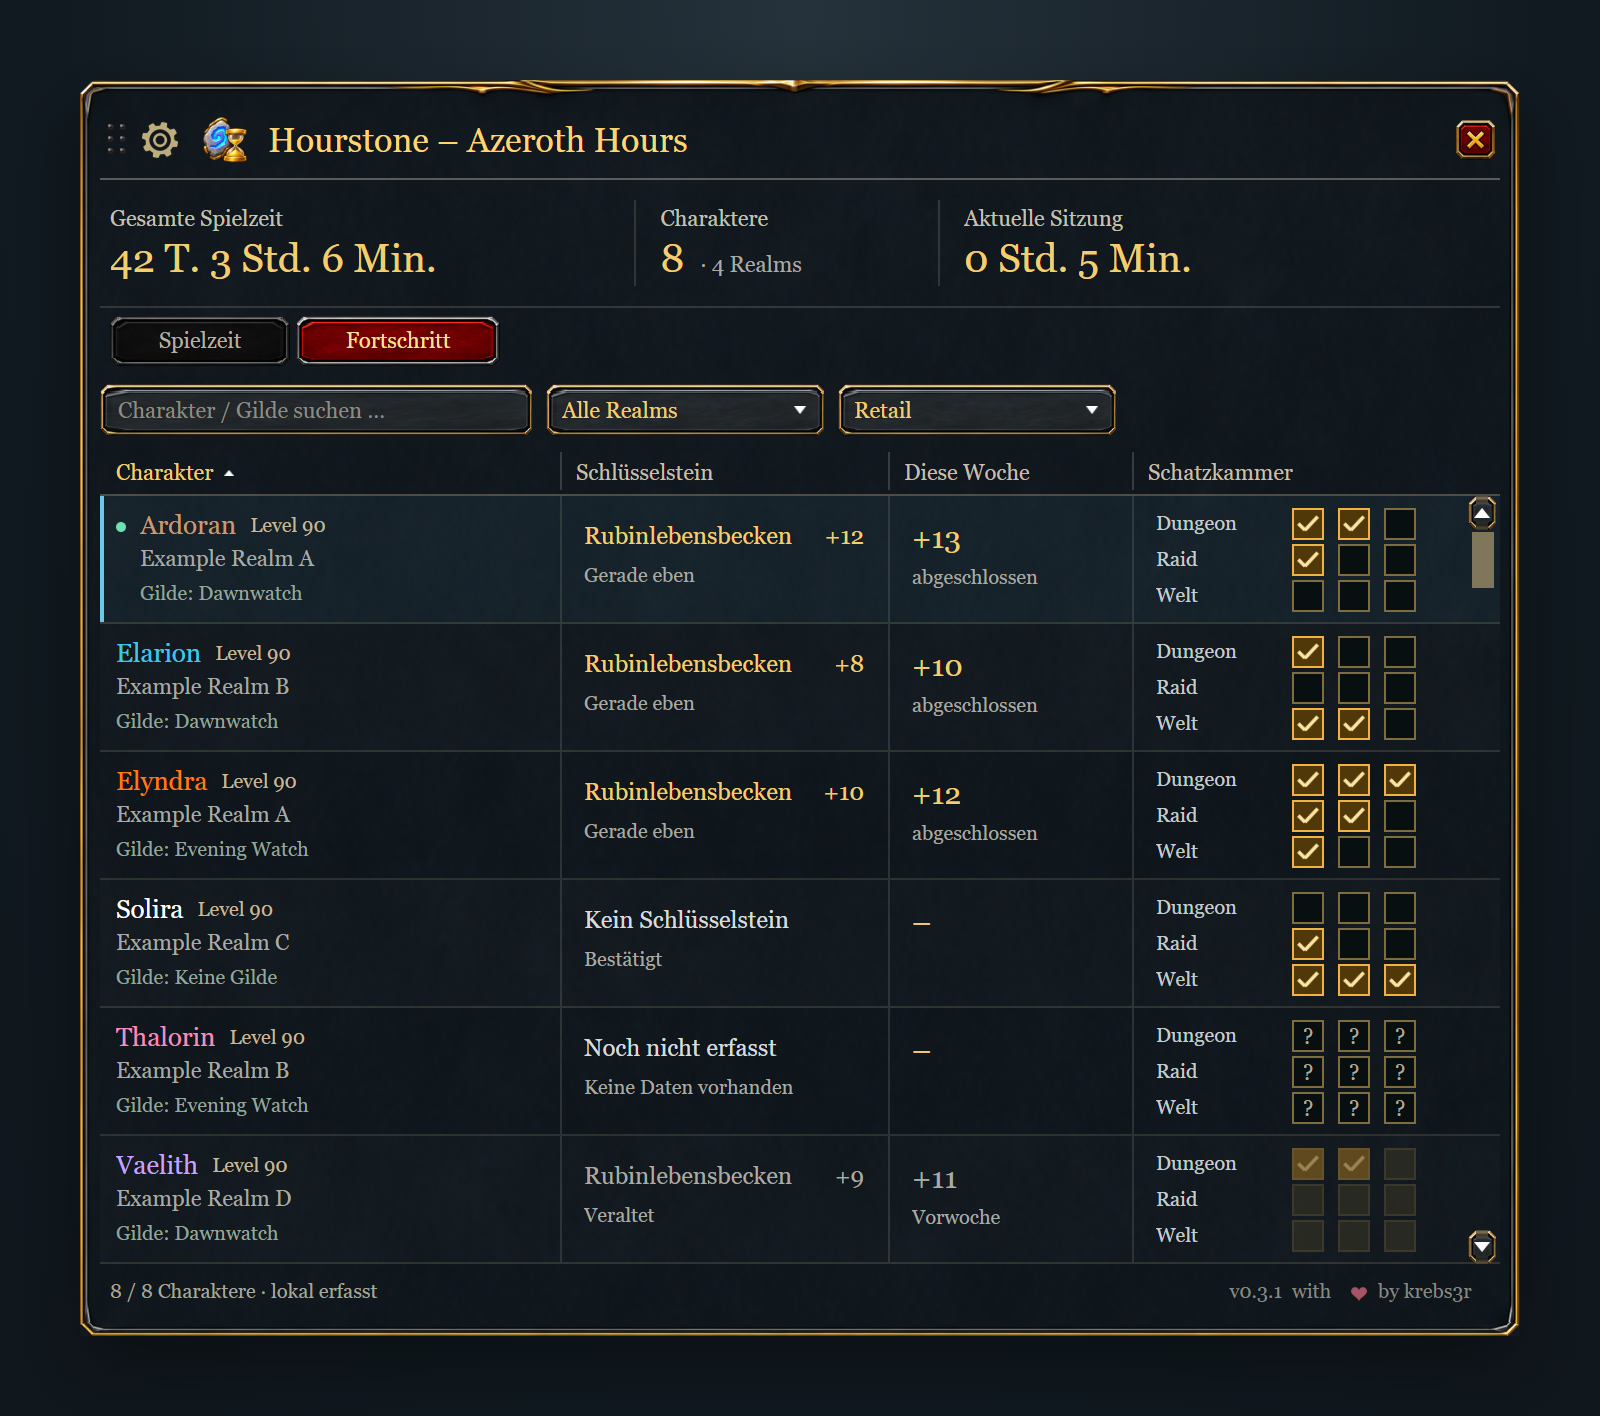
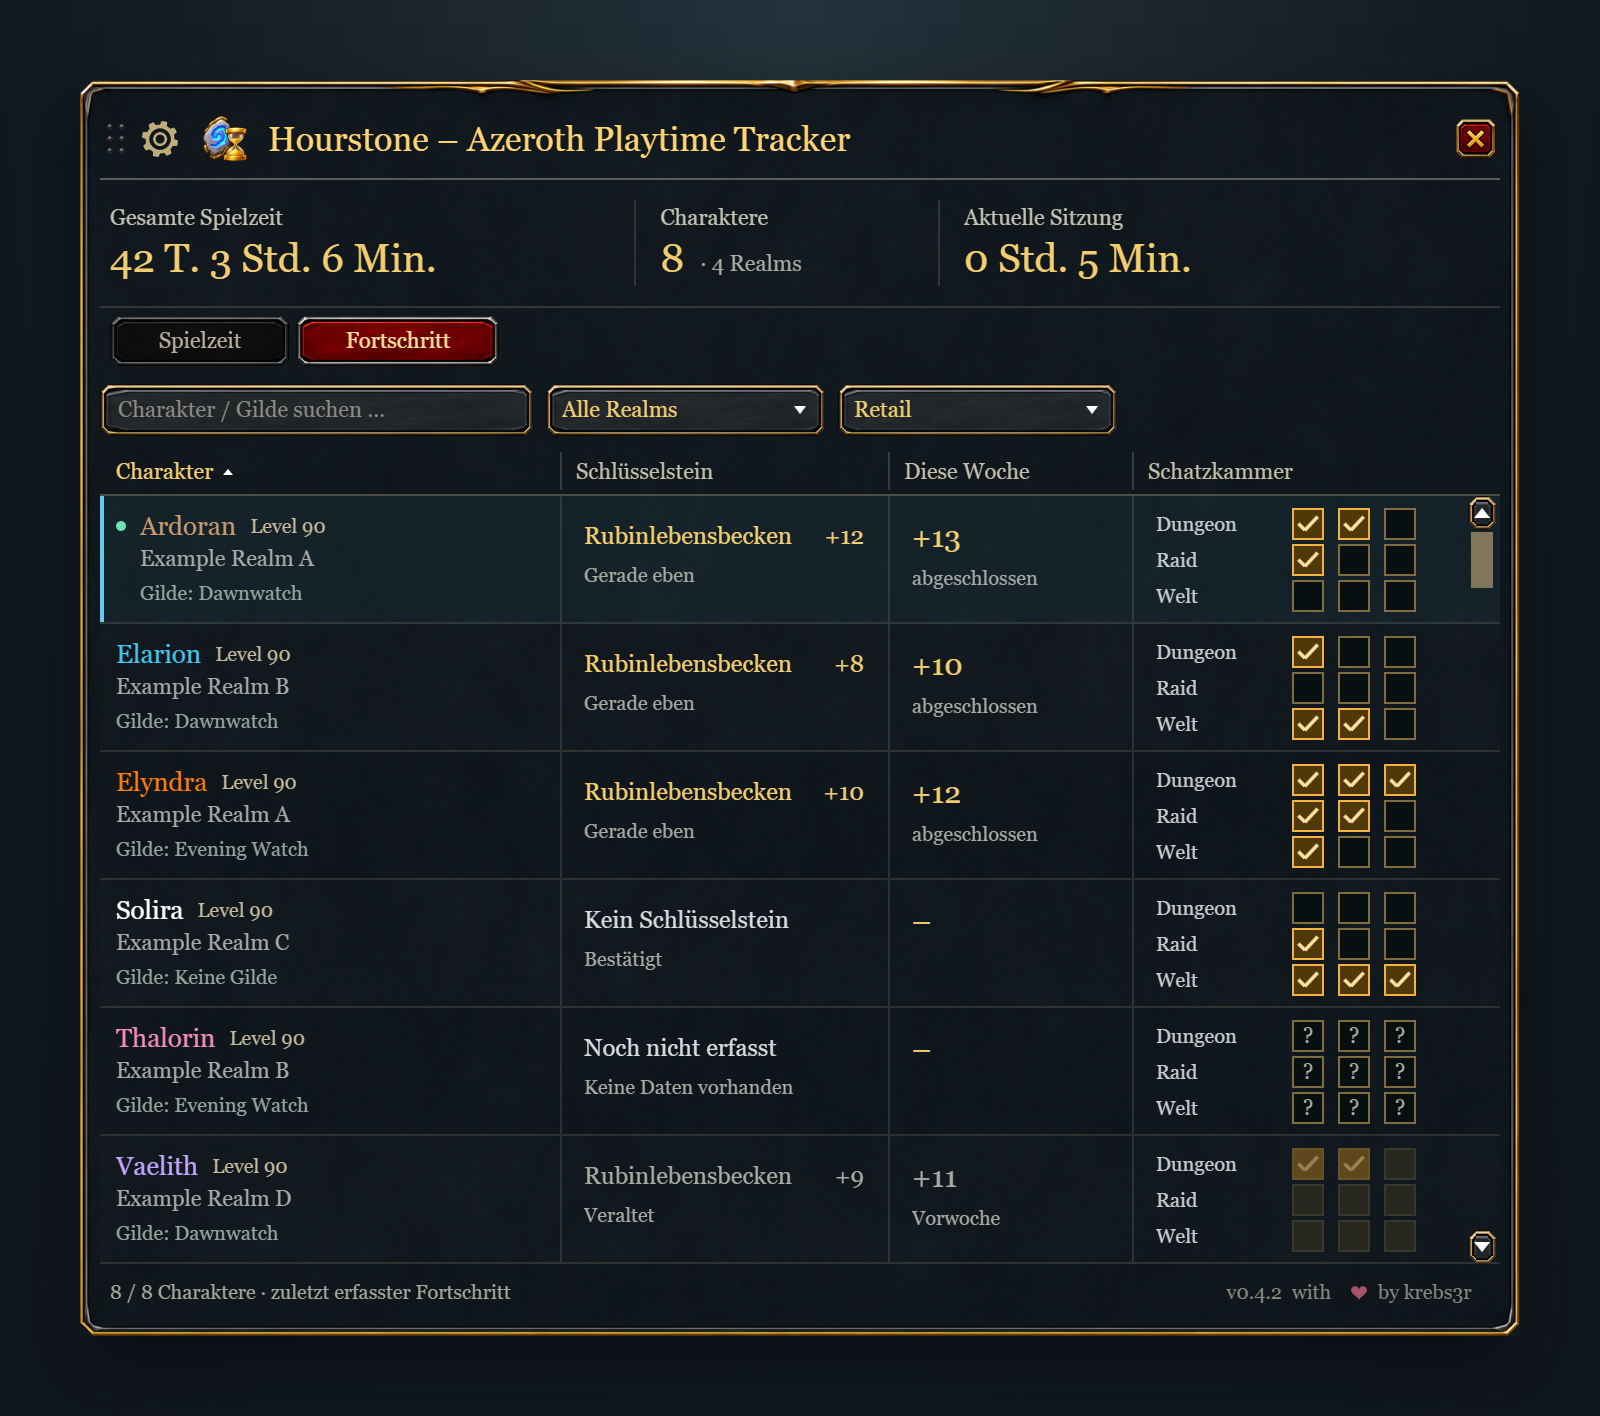
Rename to Hourstone – Azeroth Playtime Tracker
The name now says what the addon does. The addon list, the window title, WoW: Forever's title strip, the tooltips of the minimap button and the Addons menu, the README, the German guide, the CurseForge project metadata with a new summary and the GitHub release title follow it. The addon folder, HourstoneDB, /hourstone, /azerothhours, the repository and the CurseForge slug keep their names.

The TOC is at 0.4.2, the version that ships the new name. The comparison with 0.3.7 treats the title like the footer's version: each build shows its own. The rendered product images are drawn again with the new title.

diff --git a/tests/test_theme.py b/tests/test_theme.py
@@ -5,7 +5,7 @@ coordinates, desaturation, text, font size) is compared with the tagged release 
 four client families, each in its own look, and on WoW: Forever with the standard look
 applied after Forever's frame was built, in the states listed below, and in Retail's
 progress view and its tooltip. No difference is allowed, apart from the version the footer
-names: each build shows its own.
+names and the addon's name in the title: each build shows its own.
 """
 import math
 import re
@@ -73,9 +73,17 @@ def release_files():
     return preview.release(RELEASE)
 
 
+# The window title before and after the rename that followed 0.4.1.
+NAMES = ("Hourstone – Azeroth Hours", "Hourstone – Azeroth Playtime Tracker")
+
+
 def unversioned(regions, version):
-    """The footer's version text, which names each build's own version, as one placeholder."""
-    return [tuple("v<version>" if value == f"v{version}" else value for value in region) for region in regions]
+    """The footer's version and the title's name, which each build gives as its own, as placeholders."""
+    def neutral(value):
+        if value == f"v{version}":
+            return "v<version>"
+        return "<name>" if value in NAMES else value
+    return [tuple(neutral(value) for value in region) for region in regions]
 
 
 class StandardIsRelease(unittest.TestCase):

diff --git a/tests/test_layout.py b/tests/test_layout.py
@@ -216,7 +216,7 @@ class Layout(unittest.TestCase):
                 for opening in ("first","reopen","reload"):
                     with self.subTest(project=project,locale=locale,opening=opening):
                         u=lua.globals().H.UI
-                        self.assertEqual(u.title.text,"Hourstone – Azeroth Hours")
+                        self.assertEqual(u.title.text,"Hourstone – Azeroth Playtime Tracker")
                         self.assertEqual(u.title.width,588)
                         self.assertEqual(u.title.font,"Fonts\\FRIZQT__.TTF")
                         for i,key in enumerate(("total","characters","session"),1):

diff --git a/docs/FOREVER-THEME.md b/docs/FOREVER-THEME.md
@@ -65,14 +65,14 @@ The menus and the dropdown buttons go one step beyond Soundstone, which wears no
 
 Positions in the window's own units, computed from the anchors above; none of them has been seen in the game.
 
-- **Header:** the red gear at the border's TOPLEFT (8, 1), that is 3.6 to 35.6 from the left and 2.35 to 24.35 below the top; the red close button at the border's TOPRIGHT (0, 3), that is 692.5 to 720.5 from the left; between them the title strip, which drags the window and carries "Hourstone – Azeroth Hours" at size 12, centered. Gear, close button and strip on frame level +12. The 17-unit title, the logo, the rivets, the header rule and the old gear and close button are hidden.
+- **Header:** the red gear at the border's TOPLEFT (8, 1), that is 3.6 to 35.6 from the left and 2.35 to 24.35 below the top; the red close button at the border's TOPRIGHT (0, 3), that is 692.5 to 720.5 from the left; between them the title strip, which drags the window and carries "Hourstone – Azeroth Playtime Tracker" at size 12, centered. Gear, close button and strip on frame level +12. The 17-unit title, the logo, the rivets, the header rule and the old gear and close button are hidden.
 - **Content:** the summary starts 30 below the top instead of 50; toolbar, table and footer move up by the same 20 units. The window becomes 20 units shorter: 192 units plus the rows instead of 212 (decision 6). `U:Position` keeps the top edge where it was, because it already anchors by the saved height; its lower bound for a saved height (248) drops to the framed window's 242.
 - **Clearance:** the content keeps 10 units from the sides (needed: about 8.6) and the footer ends 10 above the bottom (needed: 8.3).
 - **Settings:** at (10, 28), aligned with the content's left edge and below the gear; 214 high, they end flush with the bottom of a one-row window. Their controls stay where 0.3.7 puts them: the first one starts 35 below their top (needed: about 30), the last ends 12 above their bottom.
 - **Delete dialog:** where it is (110, 30); its body starts 49 below its top and its buttons end 16 above its bottom.
 - **Levels:** border +10 over the window's content; menus +30, settings +35 and dialog +50 stay above it; the settings' and dialog's own borders sit 10 above them, under their header controls at +12.
 - **Corner cropping:** called again whenever the window's height changes (`U:LayoutRows`). At 242 units and more it probably crops nothing.
-- **Fitting text:** "Hourstone – Azeroth Hours", "Settings"/"Einstellungen" and the dialog's title fit their strips at size 12 by a wide margin, so Soundstone's `FitText` is not needed.
+- **Fitting text:** "Hourstone – Azeroth Playtime Tracker", "Settings"/"Einstellungen" and the dialog's title fit their strips at size 12 by a wide margin, so Soundstone's `FitText` is not needed.
 
 ### Scale (decision 1)
 

diff --git a/docs/curseforge/README.md b/docs/curseforge/README.md
@@ -1,6 +1,6 @@
 # Publishing Hourstone on CurseForge
 
-Project: [Hourstone – Azeroth Hours](https://www.curseforge.com/wow/addons/hourstone-azeroth-hours), ID **1697059**. [project.json](project.json) contains the configured game versions and public project metadata.
+Project: [Hourstone – Azeroth Playtime Tracker](https://www.curseforge.com/wow/addons/hourstone-azeroth-hours), ID **1697059**. [project.json](project.json) contains the configured game versions and public project metadata.
 
 ## Setup and release
 
@@ -13,7 +13,7 @@ The resulting `curseforge-upload.json` release asset records the file ID and ZIP
 
 ## Project description
 
-[description.md](description.md) is the English/German product description, including the optional Windows Companion, guilds and reversible overview deletion. Keep the project page consistent with this file when publishing. Copy it into the description editor in the [CurseForge authors dashboard](https://authors.curseforge.com/#/projects/1697059), save, and verify the resulting public page after any required moderation.
+[description.md](description.md) is the English/German product description, including the optional Windows Companion, guilds and reversible overview deletion. Keep the project page consistent with this file when publishing. Copy it into the description editor in the [CurseForge authors dashboard](https://authors.curseforge.com/#/projects/1697059), save, and verify the resulting public page after any required moderation. Its images load from `main`, so push changed images before saving the description, and rename the project in the dashboard when the name in [project.json](project.json) changes.
 
 The existing workflow and `tools/curseforge.py` upload the release ZIP and its release notes; they do **not** update the project description. Changing this Markdown file alone does not change CurseForge's project page. A description update is a separate publishing step and must not be reported as complete until it is visible on CurseForge.
 

diff --git a/README.md b/README.md
@@ -1,6 +1,6 @@
 <p align="center"><img src="docs/assets/Logo.png" width="170" alt="Hourstone: blue rune stone with a golden hourglass"></p>
 
-# Hourstone – Azeroth Hours
+# Hourstone – Azeroth Playtime Tracker
 
 **Your characters. Your time.**
 
@@ -8,7 +8,7 @@ Track your World of Warcraft characters and their total `/played` time in one co
 
 [Download](https://github.com/krebs3r/hourstone-azeroth-hours/releases/latest) · [CurseForge](https://www.curseforge.com/wow/addons/hourstone-azeroth-hours) · [Deutsche Anleitung](docs/DEUTSCH.md) · [Report an issue](https://github.com/krebs3r/hourstone-azeroth-hours/issues)
 
-![Hourstone 0.3.1 playtime overview with characters, guilds and realm and client filters](docs/assets/addon-overview-en.png)
+![Hourstone playtime overview with characters, guilds and realm and client filters](docs/assets/addon-overview-en.png)
 
 The character overview puts realm and client filters beside the search and shows each character's guild and playtime. Images show the implemented interface rendered with example characters.
 
@@ -35,7 +35,7 @@ Use the gear button for display settings and drag the title bar to move the wind
 
 ## Retail progress
 
-![Hourstone 0.3.1 Retail progress with keystones, weekly Mythic+ best and Great Vault slots](docs/assets/addon-progress-en.png)
+![Hourstone Retail progress with keystones, weekly Mythic+ best and Great Vault slots](docs/assets/addon-progress-en.png)
 
 The **Progress** tab keeps the character, realm and guild beside the current keystone, the highest completed Mythic+ level this week, and three slots each for Dungeon, Raid and World activities. Hover a progress cell or Vault row for details and its capture time. The gear menu controls size up to 200%; search and realm/client filters work in both views. Classic clients keep the playtime view.
 

diff --git a/docs/DEUTSCH.md b/docs/DEUTSCH.md
@@ -1,8 +1,8 @@
-# Hourstone – Azeroth Hours
+# Hourstone – Azeroth Playtime Tracker
 
 Hourstone zeigt die gesamte `/played`-Zeit deiner erfassten World-of-Warcraft-Charaktere, die Gesamtspielzeit und die aktuelle Sitzung in einem kompakten Fenster. In Retail zeigt die Ansicht **Fortschritt** außerdem Schlüsselsteine, die beste M+-Stufe dieser Woche und Schatzkammer-Slots. Suche, Filter, Sortierung und eine Fenstergröße bis 200 % erleichtern die Übersicht.
 
-![Hourstone 0.3.1 mit Charakteren, Gilden sowie Realm- und Clientfiltern](assets/addon-overview-de.png)
+![Hourstone mit Charakteren, Gilden sowie Realm- und Clientfiltern](assets/addon-overview-de.png)
 
 Die Charakterübersicht vereint Suche, Realm- und Clientfilter und zeigt Gilde und Spielzeit jedes Charakters. Die Bilder zeigen gerenderte Ansichten der Addon-Oberfläche mit Beispielcharakteren.
 
@@ -20,7 +20,7 @@ Lade das ZIP aus [GitHub Releases](https://github.com/krebs3r/hourstone-azeroth-
 
 ## Fortschritt in Retail
 
-![Hourstone 0.3.1 mit Schlüsselsteinen, M+-Wochenbestleistung und Schatzkammer-Slots](assets/addon-progress-de.png)
+![Hourstone mit Schlüsselsteinen, M+-Wochenbestleistung und Schatzkammer-Slots](assets/addon-progress-de.png)
 
 Mit **Spielzeit | Fortschritt** wechselst du die Ansicht im selben Fenster. Fortschritt zeigt neben Charakter, Realm und Gilde den eigenen Schlüsselstein, die höchste abgeschlossene M+-Stufe dieser Woche und je drei Schatzkammer-Slots für Dungeon, Raid und Welt. Tooltips zeigen vollständige Namen, Fortschritt, Schwierigkeit und Erfassungszeit. Suche und Realm-/Clientfilter gelten in beiden Ansichten. Classic behält die Spielzeitansicht.
 

diff --git a/CHANGELOG.md b/CHANGELOG.md
@@ -1,5 +1,9 @@
 # Changelog
 
+## Unreleased
+
+- New name: **Hourstone – Azeroth Playtime Tracker**. The addon list, the window title, WoW: Forever's title strip and the tooltips of the minimap button and the Addons menu show it; the addon folder, your saved data, `/hourstone` and `/azerothhours` stay as they are.
+
 ## 0.4.1 — 2026-11-10
 
 - Show Death Knights, Monks and Demon Hunters in their class colors on clients whose class table lacks them, such as WoW: Forever for characters synchronized from Retail. Hourstone takes Blizzard's own colors for these classes from the Classic clients' class color table; the client's own colors still come first.
